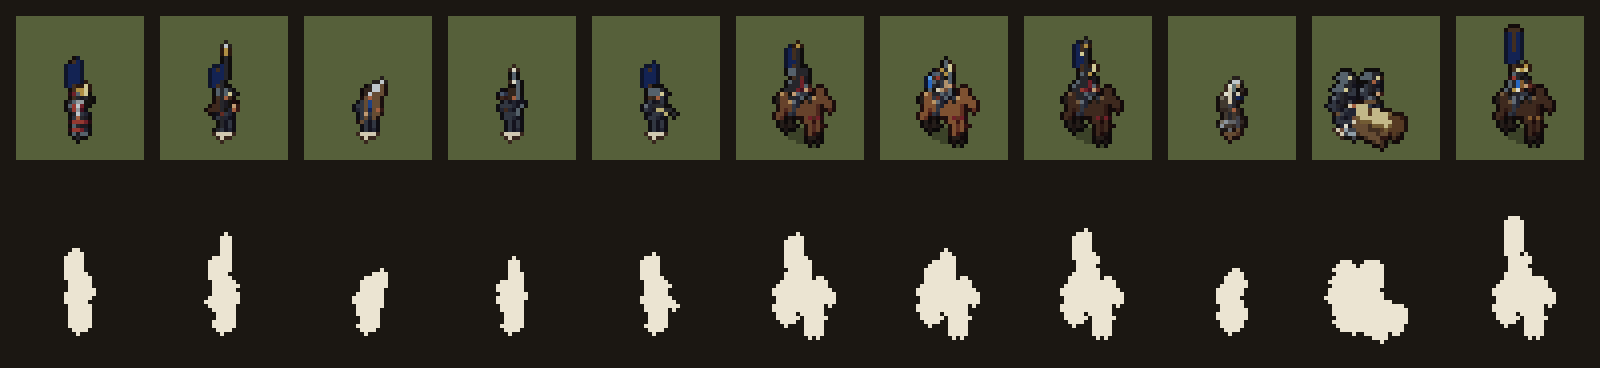
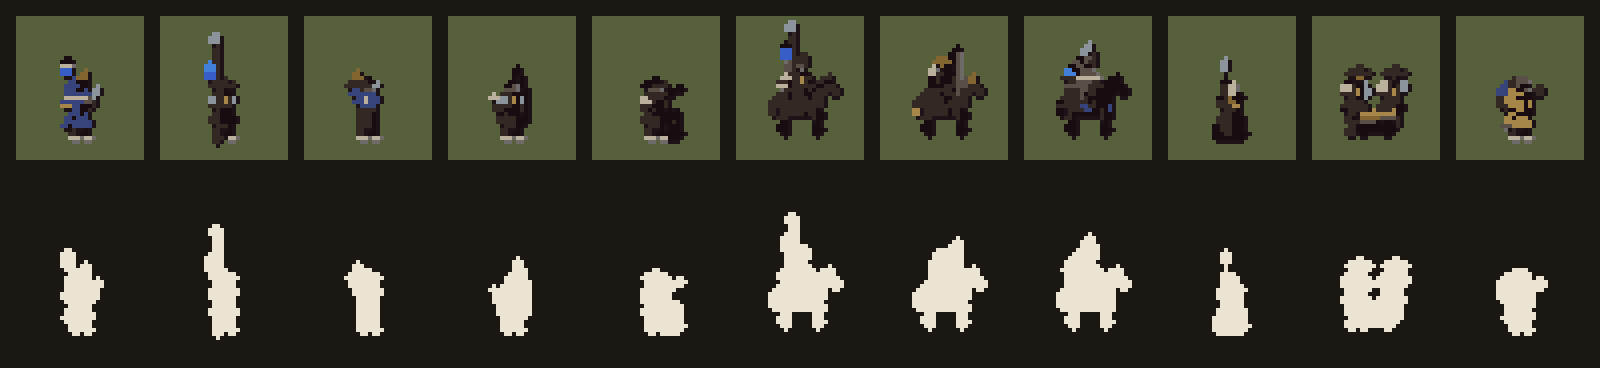
docs: mirrored-facing light (README section, references and rounds, before/after image)
Claude-Session: https://claude.ai/code/session_01JjQv3QFHi6qQZSn2bfNND2

diff --git a/docs/art-references/mirror-light.md b/docs/art-references/mirror-light.md
@@ -1,0 +1,43 @@
+# Light in the mirrored facings (HD paper sprites)
+
+Subject: the HD paper figures draw two facings (SE front three-quarter, NE back) and make SW and NW
+by mirroring them. Painted shading assumes a key light from the top-left, so before this fix the
+mirrored facings were lit from the top-right: half of the figures in a battle had their light on
+the wrong side. The fix is described in `src/client/render/paper/README.md` ("The light in the
+mirrored facings"). Before/after: `docs/screenshots/hd-sprites/mirror-light-before-after.png`.
+
+Study copies are in the git-ignored `references/mirror-light/`. Nothing third-party is committed.
+
+## References
+
+| Image / page | Licence | What we took from it |
+|---|---|---|
+| Technopeasant, "8 Directional Sprite Sets": <https://opengameart.org/sites/default/files/tluphap.png> ([page](https://opengameart.org/content/8-directional-sprite-sets)) | CC0 | Hand-pixelled front, back and side views of one man. Each view is drawn for its own direction and keeps the same light (the lit plane of the coat stays on the upper left), so the left/right side views are **not** pixel mirrors of each other. The back view keeps its lit side where the front view has it. |
+| "Mini Daemon": <https://opengameart.org/sites/default/files/minidaemon.png> ([page](https://opengameart.org/content/mini-daemon)) | CC0 | An 8-direction sheet. The highlight sits on the same screen side in every row, whichever way the body faces, so the figure turns under a fixed light rather than carrying its light around with it. |
+| "Isometric walking sprite": <https://opengameart.org/sites/default/files/spritesheet_12.png> ([page](https://opengameart.org/content/isometric-walking-sprite)) | CC-BY 3.0 (study only) | Pre-rendered from 3D with one fixed sun. The cast shadow always falls lower-left and the lit side stays the same in all 8 directions. This is the target for an isometric battle: the world light is fixed and the figures turn under it. The same holds in the games we take after (Diablo II, the Total War sprites). |
+| Phaser forum, "Light shading only works from one side": <https://phaser.discourse.group/t/light-shading-only-works-from-one-side/3287> | text | The same bug in an engine: flipping a lit sprite with a negative x scale flips its lighting too. Engines fix it by flipping the light along with the sprite. That is our option (b): draw the facing for the mirror with the light flipped, then mirror it. |
+| `docs/art-references/pixel-art-craft.md`, `pixel-art-techniques.md` | ours | One light source per scene. The lit side and the sel-out outline face the light. Shade by planes, not pillow shading. |
+
+## What was done
+
+- **Option (b), applied centrally.** `Paper.lightX` (1 as seen, -1 when drawing for a mirror) is set by `drawFacing` and `paintSkeleton`. `poly` works out its across-axis (lit edge to shadow edge) in the seen frame. So `rod`, axis-shaded volumes and `detail(u)` follow it, and `blob` flips its light cluster. The result is exact: a part drawn for the mirror and then mirrored equals the same part drawn where the mirror puts it (unit test).
+- **Hand-written shading** reads its horizontal lighting terms through `c.litX(dx)`, a small helper. Geometry stays in plain x. This was done per site in templar-static, templar-parts (spear head), samurai-static and samurai-parts (every `lit(c, base, …)` argument, plus the horse, the helms, the dō and the kusazuri tones), undead-parts (`planeLight` via `drawLightX()`, the hood, the pavise skull, the lit-edge pass in `shadeLower`) and undead-static (`keyLight`'s rim, plate specular, highlights in blob details).
+- Option (a) was rejected: re-shading from a tone buffer can't tell a lit band from painted detail, such as a white cross or a gilt edge, so it would recolour heraldry.
+- **Caches** key on the light side: the part images in skeleton.ts and templar-rig's `memoSkin`.
+
+## Critique rounds
+
+1. **Core primitives only** (poly axes, rod, blob). Measured with the lint's per-region light-angle error. Mirrored facings went from 85–110° to 80–95°, almost no change. Looking at the sheet showed why: most of the shading in the figures is hand-placed (templar `shapeU` planes, samurai `lit()` planes, undead `planeLight`).
+2. **Templar and samurai hand shading.** At level 8, templar SW/NW went to 28/36° (SE/NE 28/39°) and samurai to 34/36° (27/28°). Against the references: the horse's croup and barrel now take their highlight on the upper-left like the CC0 sheets, and the mantle and caparison folds have their lit ridge on the light side. At level 2, samurai SW was still lit right: the kusazuri panel tones come from a table by position. Fixed by taking the mirrored panel's tone.
+3. **Undead and level 2.** `planeLight` (most undead cloth and plate) follows the light. So do the hood, `keyLight`'s rim and the lit-edge pass, which steps toward the light. The Legionary's shield, hood and pauldron now light top-left in SW. Where the remaining light-angle error on some mirrored undead and level 1–2 figures comes from: near/far depth tones (the near leg is lighter and is on the right in SW), and the metric's noise on 13–26 px figures. Those are geometry, not light, and are left alone. A flicker check gave per-facing frame-to-frame churn: SW/NW within ±1 point of SE/NE at levels 2 and 8. No new A-B-A brightness flips.
+
+## Numbers (lint light-angle error, mean of 11 kinds, degrees; SE / SW / NW / NE)
+
+| | before | after |
+|---|---|---|
+| templar L2 | 53 / 91 / 93 / 63 | 53 / 46 / 51 / 63 |
+| templar L8 | 28 / 94 / 93 / 39 | 28 / 28 / 36 / 39 |
+| samurai L2 | 35 / 82 / 77 / 48 | 35 / 53 / 52 / 48 |
+| samurai L8 | 27 / 112 / 100 / 28 | 27 / 34 / 36 / 28 |
+| undead L2 | 60 / 77 / 75 / 68 | 60 / 82 / 54 / 68 |
+| undead L8 | 27 / 92 / 77 / 44 | 27 / 41 / 38 / 44 |

diff --git a/src/client/render/paper/README.md b/src/client/render/paper/README.md
@@ -111,6 +111,40 @@ the viewer: it is screen-left in SE and screen-right in NE. In NE:
 
 To hand-draw SW or NW instead of mirroring, list them in `facings`.
 
+#### The light in the mirrored facings
+
+A mirrored facing mirrors the geometry, **not the light**: SW and NW are drawn with the light
+reversed (`c.lightX === -1`, key light top-right) and then mirrored, so all four facings are lit
+from the top-left. `drawFacing` (and `paintSkeleton`) set it; your `draw` is called the same way
+as before. What follows the light by itself:
+- `poly` axes, so `rod`, every volume built on an axis (templar-static `vol`, samurai `vol`) and the `u` handed to a `detail`;
+- `blob`'s lit cluster and shadow crescent;
+- the outline and contact passes (they run after the mirror);
+- `planeLight` (undead), through `drawLightX()`.
+
+What you must do in hand-written shading: wrap the **x of every lighting term** in `c.litX(...)`.
+It returns `dx` as is in a facing drawn as seen and `-dx` in one drawn for a mirror. Geometry stays in
+plain x (where the cross, the eye, the visor bar or a fold is). Examples:
+
+```ts
+const lit = c.litX(ux) < -0.55 ? 1 : c.litX(ux) > 0.75 ? -1 : 0;   // helm: lit band, shaded flank
+code(SM.lacquer, lit(c, 2, c.litX(fx) * 0.8 + fy * 0.4));           // samurai plane light
+if (ny < -0.45 && c.litX(nx) < 0.3) return code(TM.steel, 4);       // a blob detail's highlight
+const dd = c.litX(fx - f0);                                          // a fold's lit ridge beside its channel
+```
+
+Measure from the part's own origin (`c.litX(fx - 5)`, not `c.litX(fx) - 5`): the mirrored part's
+origin is mirrored too. A tone picked from a table by position (samurai kusazuri) takes the entry at
+the mirrored position. Pixel passes inside a draw step toward the light with `i - c.lightX` and
+away with `i + c.lightX`, not `i - 1` (undead `shadeLower`, `keyLight`). Leave depth alone: the far
+arm or leg in shade is geometry, not light. A part cache that keys on the drawing must key on
+`c.lightX` too (`skeleton.ts` part images, `templar-rig.ts` `memoSkin`), and a scratch Paper takes
+the caller's `lightX`.
+
+`paper.test.ts` checks that a part drawn for a mirror and then mirrored equals the same part drawn
+where the mirror puts it. Before/after: `docs/screenshots/hd-sprites/mirror-light-before-after.png`;
+notes and references: `docs/art-references/mirror-light.md`.
+
 ## Animating with bones (`skeleton.ts`)
 
 The pose rig above moves anchors you compute by hand. `skeleton.ts` gives a figure real bones
@@ -216,6 +250,7 @@ All points are in figure units, with `(0, 0)` at the feet.
 | `c.blob(centre, rx, ry, mat, { tone, shine, detail })` | An ellipse with a light cluster offset to the top-left and a shadow crescent at the bottom-right: skulls, joints, pommels, plates. |
 | `c.shape(pts, shade)` / `c.poly(canvasPts, shade, axis?)` | Any polygon with your own shading rule. `shape` takes units, `poly` takes canvas px. |
 | `c.line(a, b, code)` | A 1 px line: bowstrings, cracks, seams. |
+| `c.litX(dx)`, `c.lightX`, `drawLightX()` | The light side (see "The light in the mirrored facings"): `litX` turns a horizontal offset in a lighting term so it is negative toward the light in every facing. |
 | `c.smear(pivot, from, to, r0, r1, mat)` | A solid motion arc for a weapon sweep: one shape, no blending. |
 | `code(mat, tone)` | A pixel code. Tones run 0 (deep) to 4 (light). A shade callback returns a code, or `-1` to leave the pixel. |
 
@@ -258,7 +293,7 @@ What the core does with your colours, so you don't have to:
 
 ## Passes (run by `index.ts` on every frame)
 
-1. **mirror**: SW and NW only.
+1. **mirror**: SW and NW only (drawn with `lightX = -1`, so the mirror keeps the light top-left).
 2. **contact**: an inner line on the **shadow side only**. A part's own rim darkens two tones where its right or lower neighbour is a part behind it. There is never a dark line all the way round a part (pillow shading).
 3. **clusters**: specks of one tone smaller than 3 px (4 at level 8) take their most common same-material neighbour.
 4. **steady**: anti-flicker with hysteresis against the previous frame of the same animation. A lone flip, or a one-step band flip with two neighbours agreeing, keeps last frame's tone. Paint an animation's frames in order on one `Paper`.
@@ -332,5 +367,7 @@ The Grave Legionary's current status (undead kind 0):
 A kind's sheet paints in a worker. Passes scan only the drawn bounding box. On the 4-core
 container, a paper kind takes about 90 ms at level 1, 140 ms at level 2, 300 ms at level 4 and
 700 ms at level 8 (`pnpm tsx scripts/sprite-bench.ts <faction> 1,2,4,8 <kinds>`). That is on a par
-with the ray-cast painter from level 4 up. Keep `poly` counts sane: a part per bone or plate, not
+with the ray-cast painter from level 4 up. Since the mirrored facings draw their own part images (lit from the
+other side), a sheet costs about 5% more CPU than with plain mirroring, after `begin` was changed to clear only the
+drawn box. Keep `poly` counts sane: a part per bone or plate, not
 per pixel.
